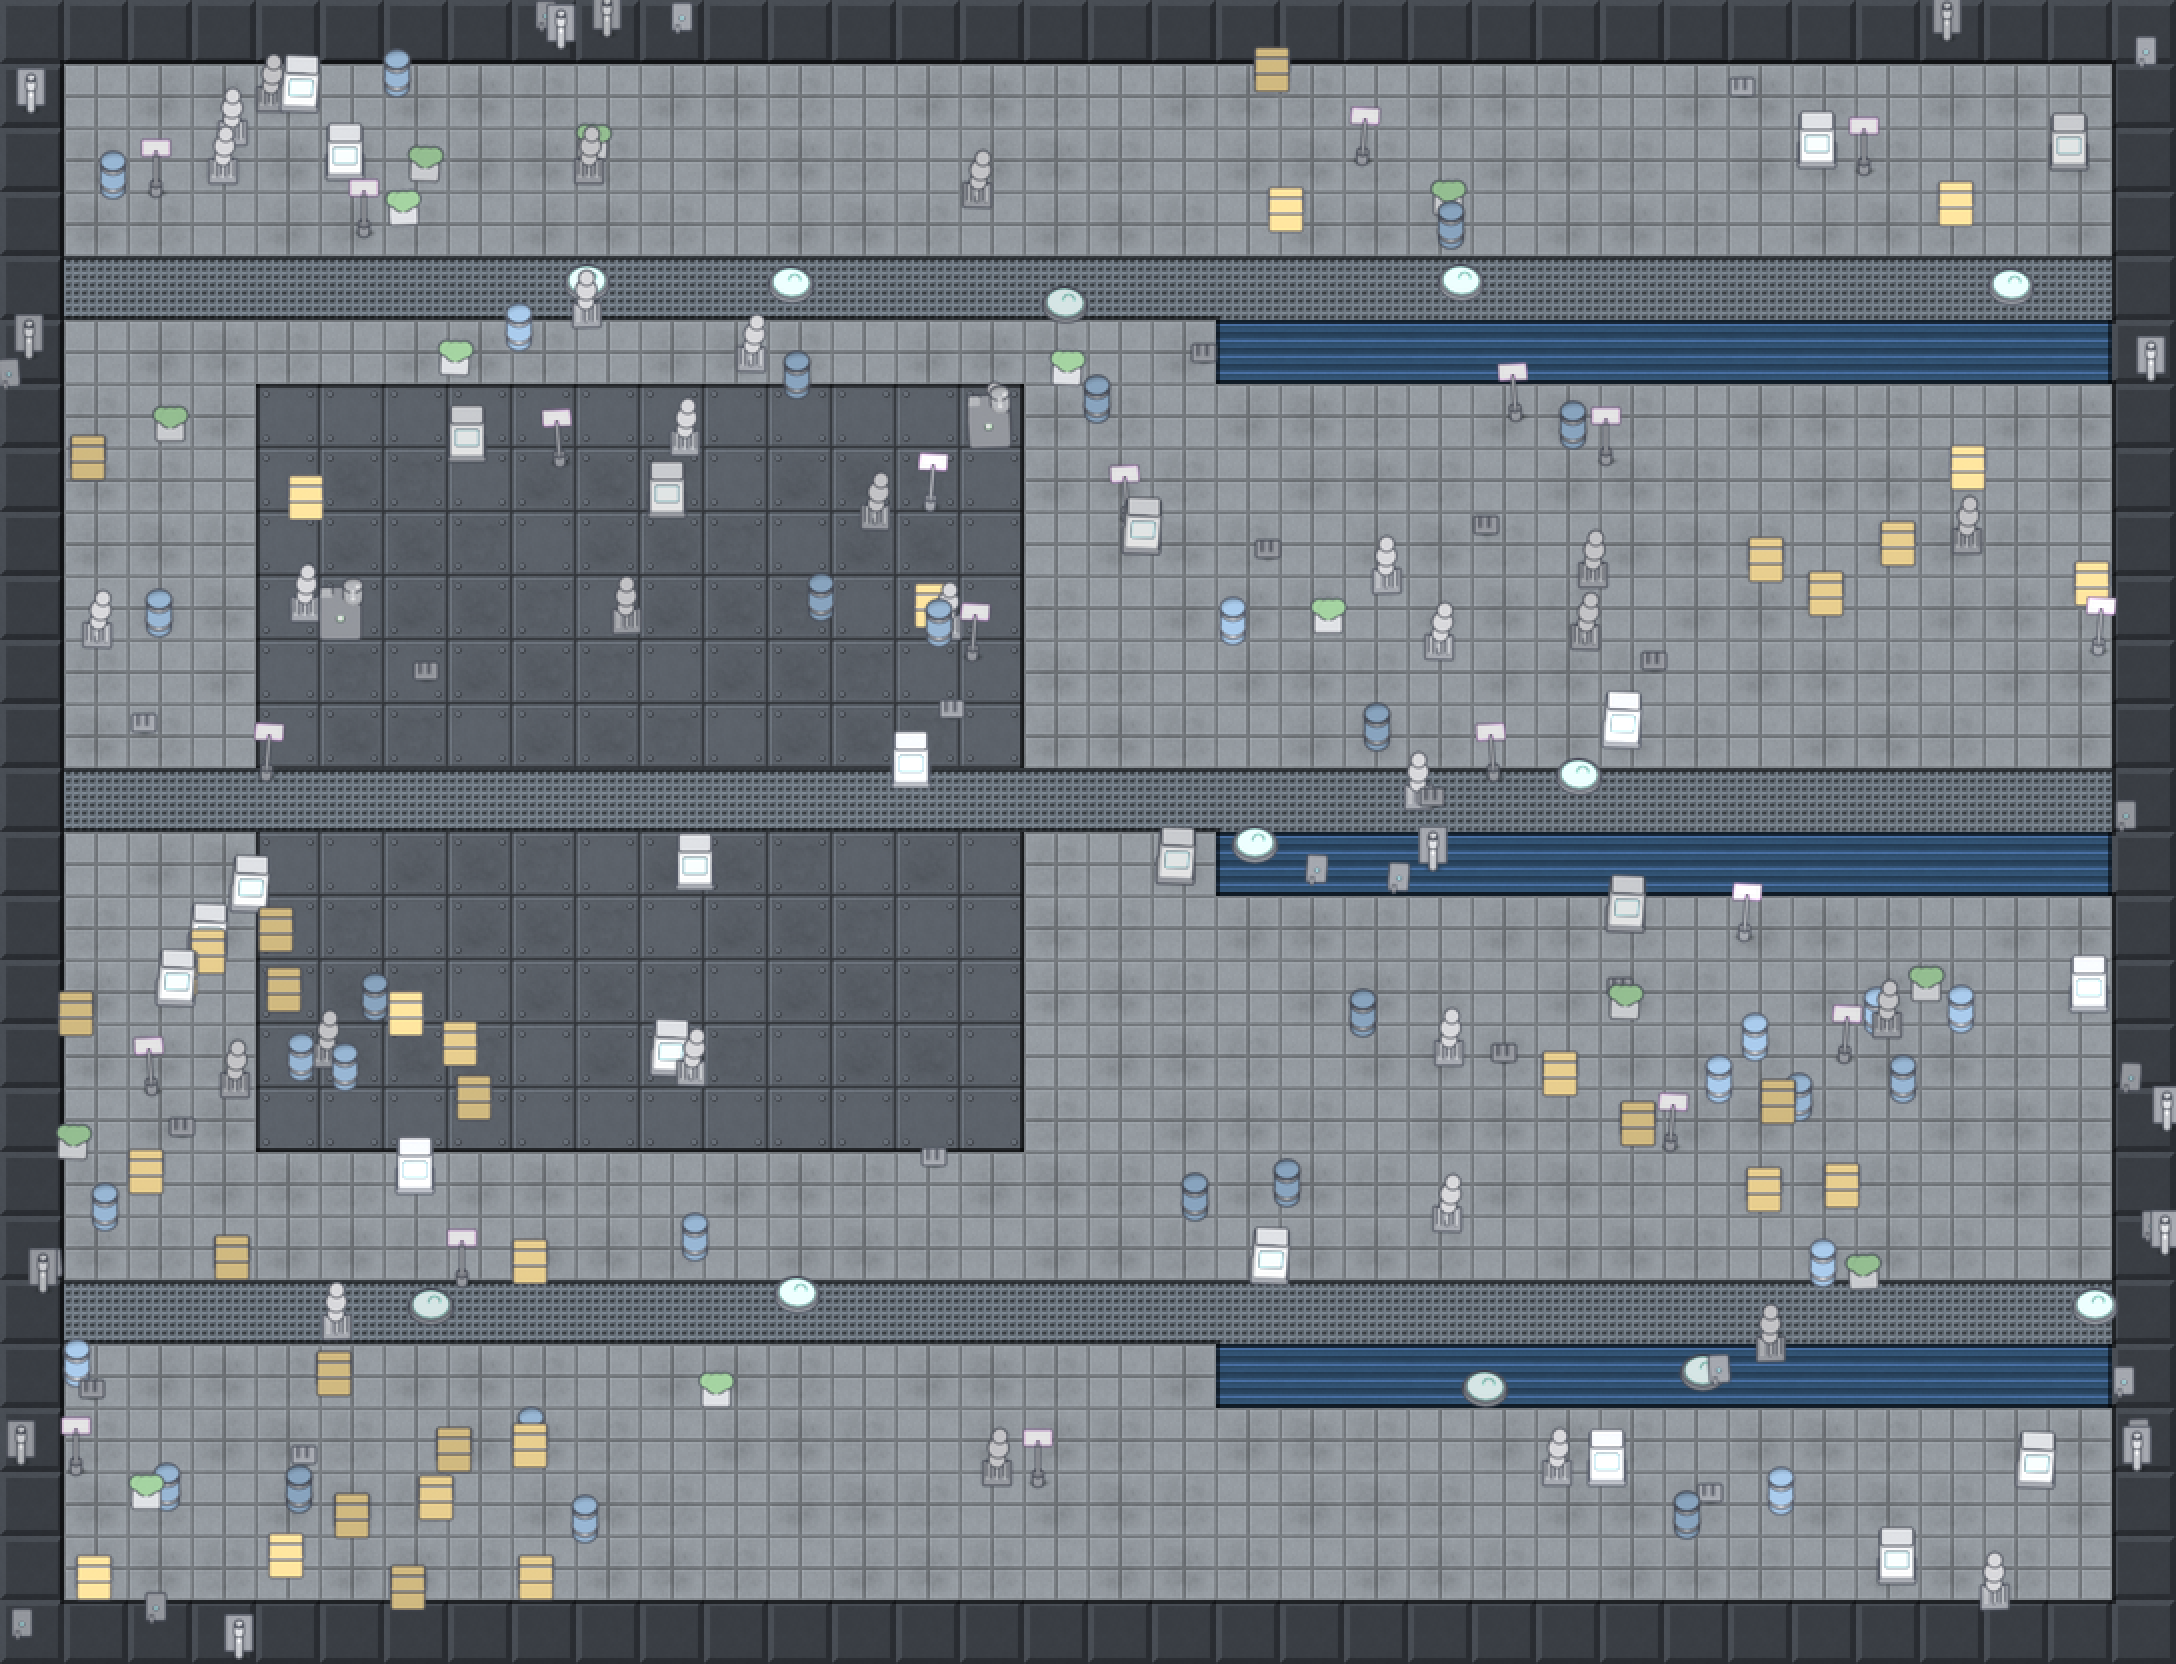
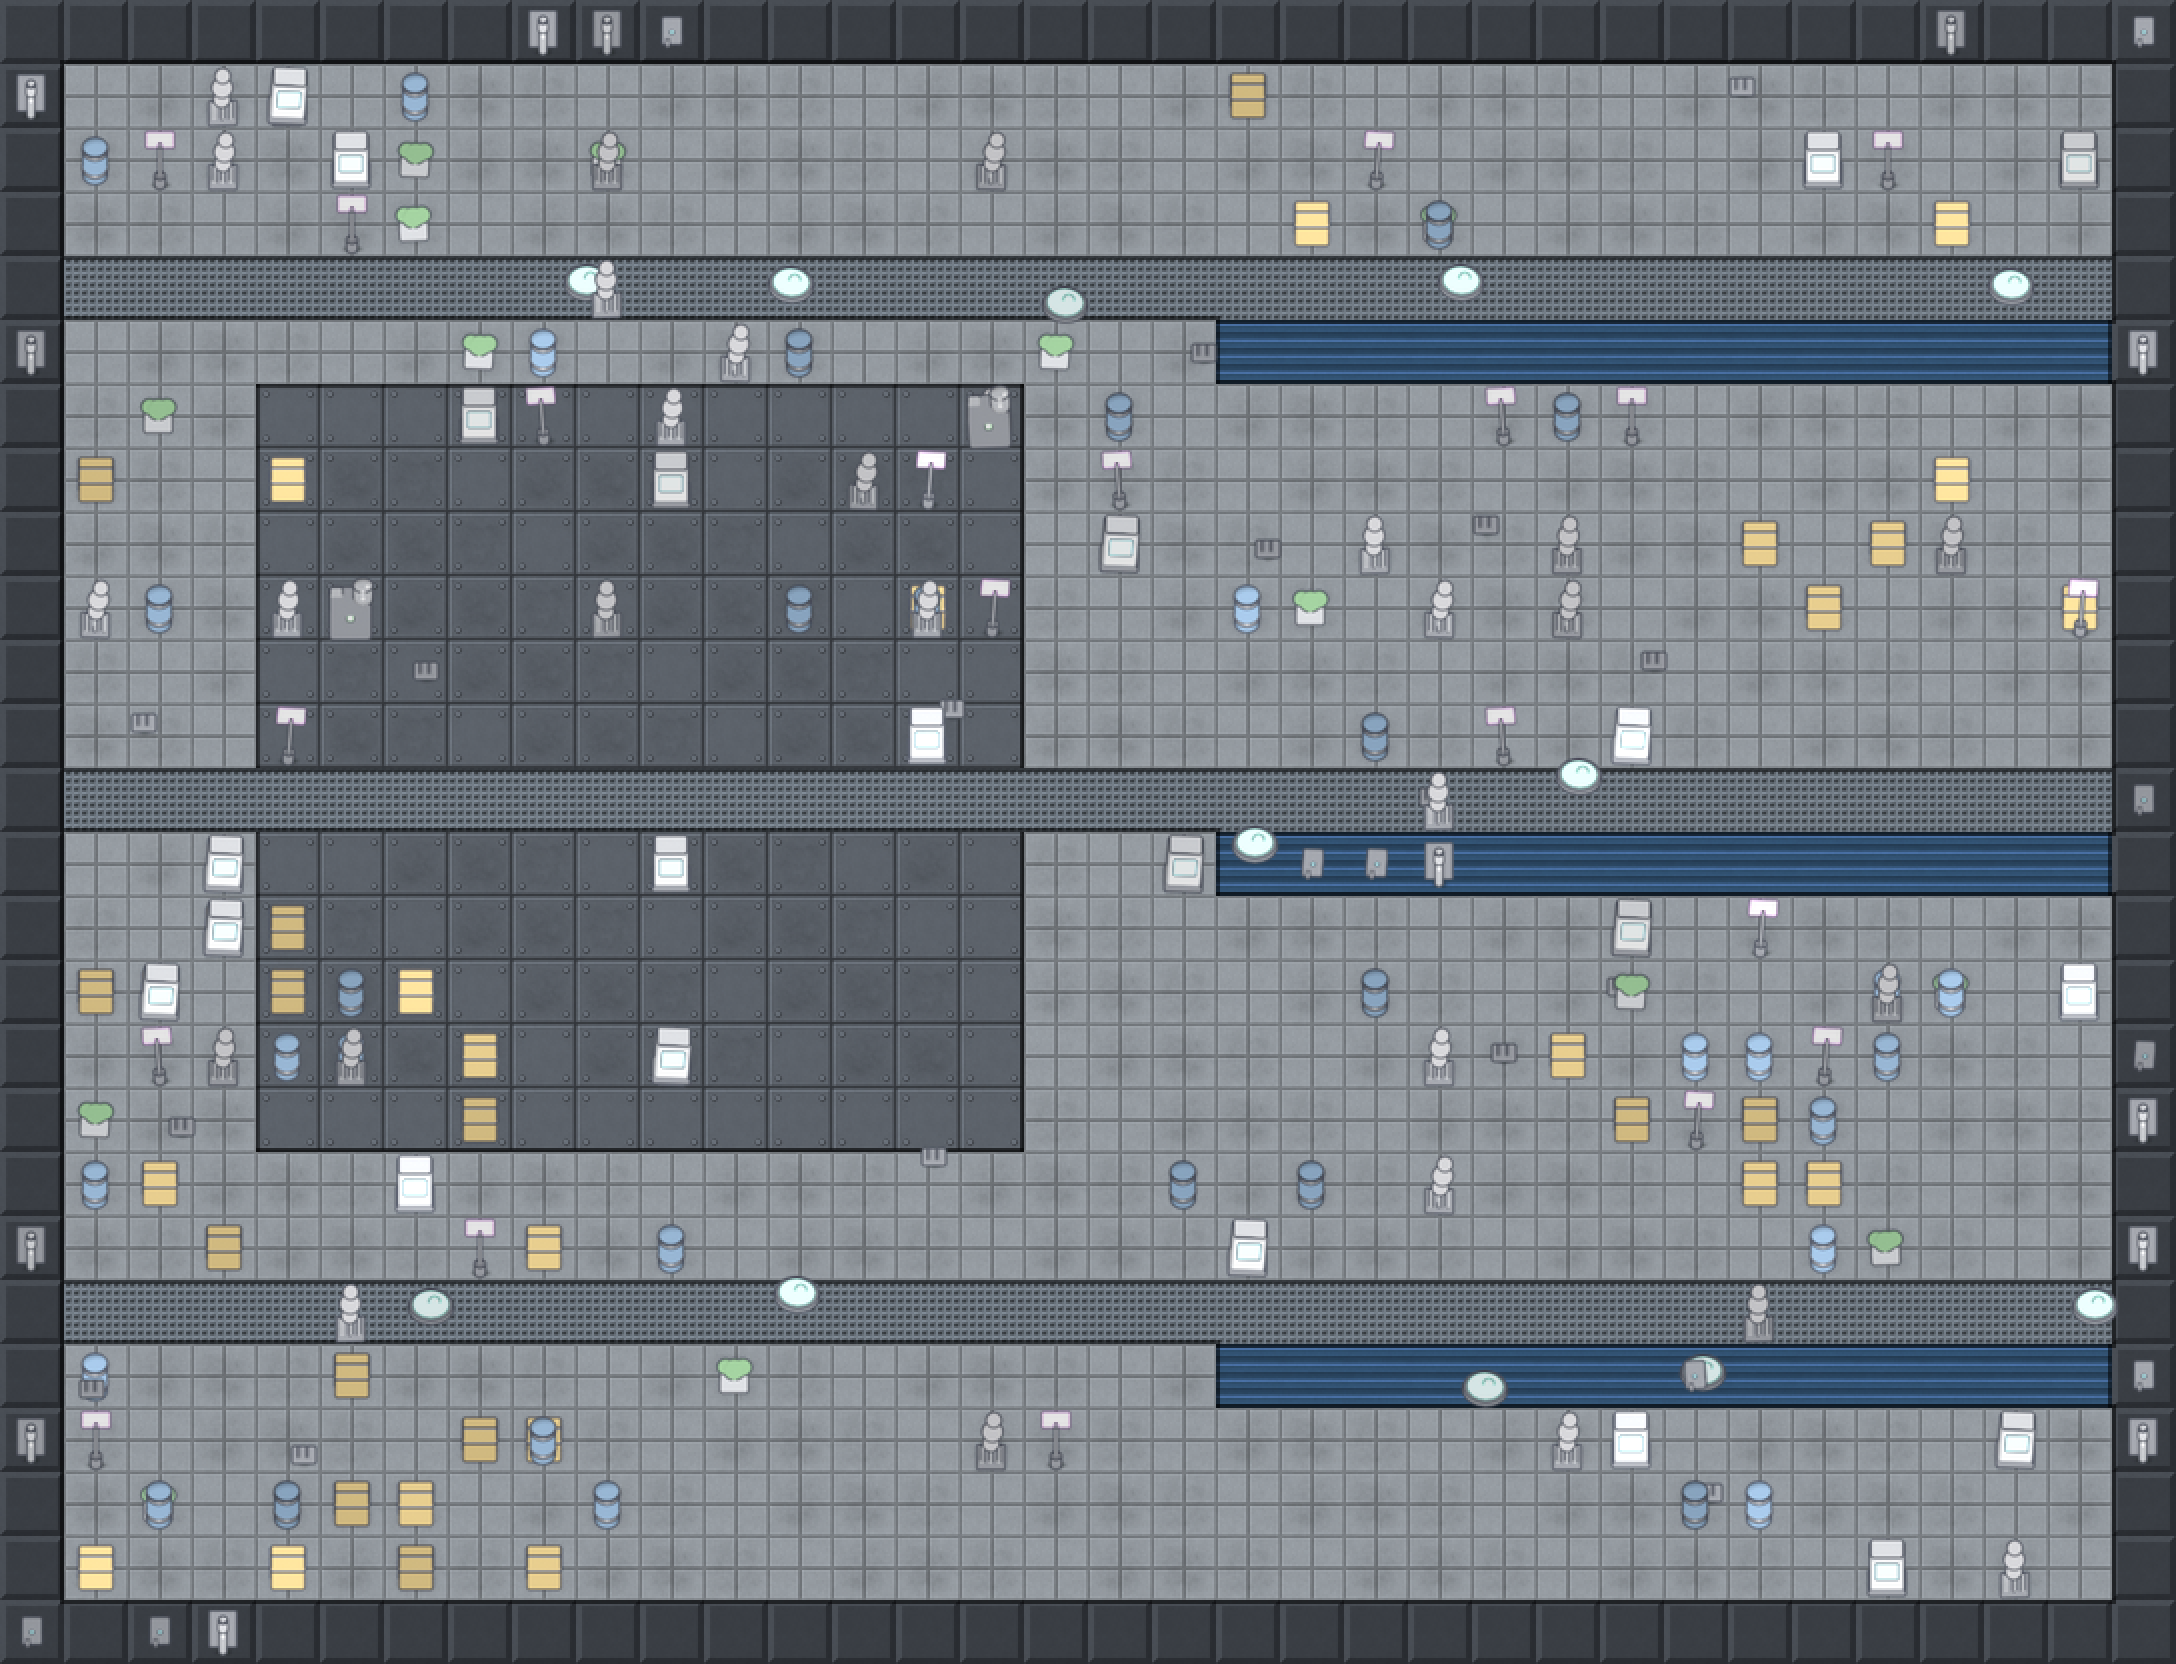
Station objects: grid-align man-made props (planned interior)
Interiors are planned, not grown — so man-made station objects (crates,
canisters, kiosks, machines, floor vents, holo signs, cabling, wall pipes,
planters) now snap to the tile-grid centre instead of jittering randomly within
the tile, lining up in orderly rows. Leaks (coolant) and vermin (rat, roach)
keep random placement.

- New per-object `grid` flag (ObjectDef, #[serde(default)] so other biomes are
  unaffected); placement uses tile-centre when set, random jitter otherwise.
- objects3d emits grid:true for the GRID_OBJECTS set in the interior manifest.
- Re-baked interior manifest + refreshed the example render.

diff --git a/src/surface_objects.rs b/src/surface_objects.rs
@@ -49,6 +49,10 @@ struct ObjectDef {
     max_per_tile: u32,
     y_offset: f32,
     shy: bool,
+    /// Snap to the tile-grid centre instead of random in-tile jitter — for
+    /// man-made objects in planned interiors. Defaults to false (organic).
+    #[serde(default)]
+    grid: bool,
 }
 
 #[derive(Deserialize, Debug)]
@@ -213,9 +217,16 @@ pub fn spawn_landscape_objects(
                     .count();
 
                 for _ in 0..count {
-                    // Jitter within the tile.
-                    let jx = rng.r#gen_range(-0.4..0.4) * tile_px;
-                    let jy = rng.r#gen_range(-0.4..0.4) * tile_px;
+                    // Grid objects snap to the tile centre (planned interior);
+                    // organic objects jitter randomly within the tile.
+                    let (jx, jy) = if obj_def.grid {
+                        (0.0, 0.0)
+                    } else {
+                        (
+                            rng.r#gen_range(-0.4..0.4) * tile_px,
+                            rng.r#gen_range(-0.4..0.4) * tile_px,
+                        )
+                    };
 
                     let world_x = (x as f32 - map_w as f32 / 2.0) * tile_px
                         + tile_px / 2.0

diff --git a/scripts/ship3d/objects3d.py b/scripts/ship3d/objects3d.py
@@ -890,6 +890,10 @@ ORTHO_B = 4.2
 PX_PER_UNIT = {"garden": 12.0, "rocky": 17.0, "ice": 20.0, "desert": 20.0, "interior": 36.0}
 # sit in lava/water/fluid, not on ground → skip the baked contact shadow
 NO_SHADOW = {"lava_bubble", "lava_spurt", "fish", "seaweed", "ice_floe", "ice_glint", "coolant"}
+# man-made station objects snap to tile-grid centres (planned interior, not
+# organic growth); leaks/vermin stay random.
+GRID_OBJECTS = {"crate", "canister", "kiosk", "machine", "floor_vent", "holo_sign",
+                "cabling", "wall_pipe", "planter"}
 TMP = os.path.join(OUT, "_obj_bake_tmp.png")
 
 
@@ -988,6 +992,7 @@ def _merge_manifest(out_dir, meta, biome):
                   f"                    terrains: {tr},", f"                    density: {dens},",
                   f"                    min_distance: {mind},", f"                    max_per_tile: {mx},",
                   f"                    y_offset: {yo},", f"                    shy: {str(shy).lower()},",
+                  f"                    grid: {str(nm in GRID_OBJECTS).lower()},",
                   "                ),"]
     lines += ["            ],", "        ),"]
     block = "\n".join(lines)